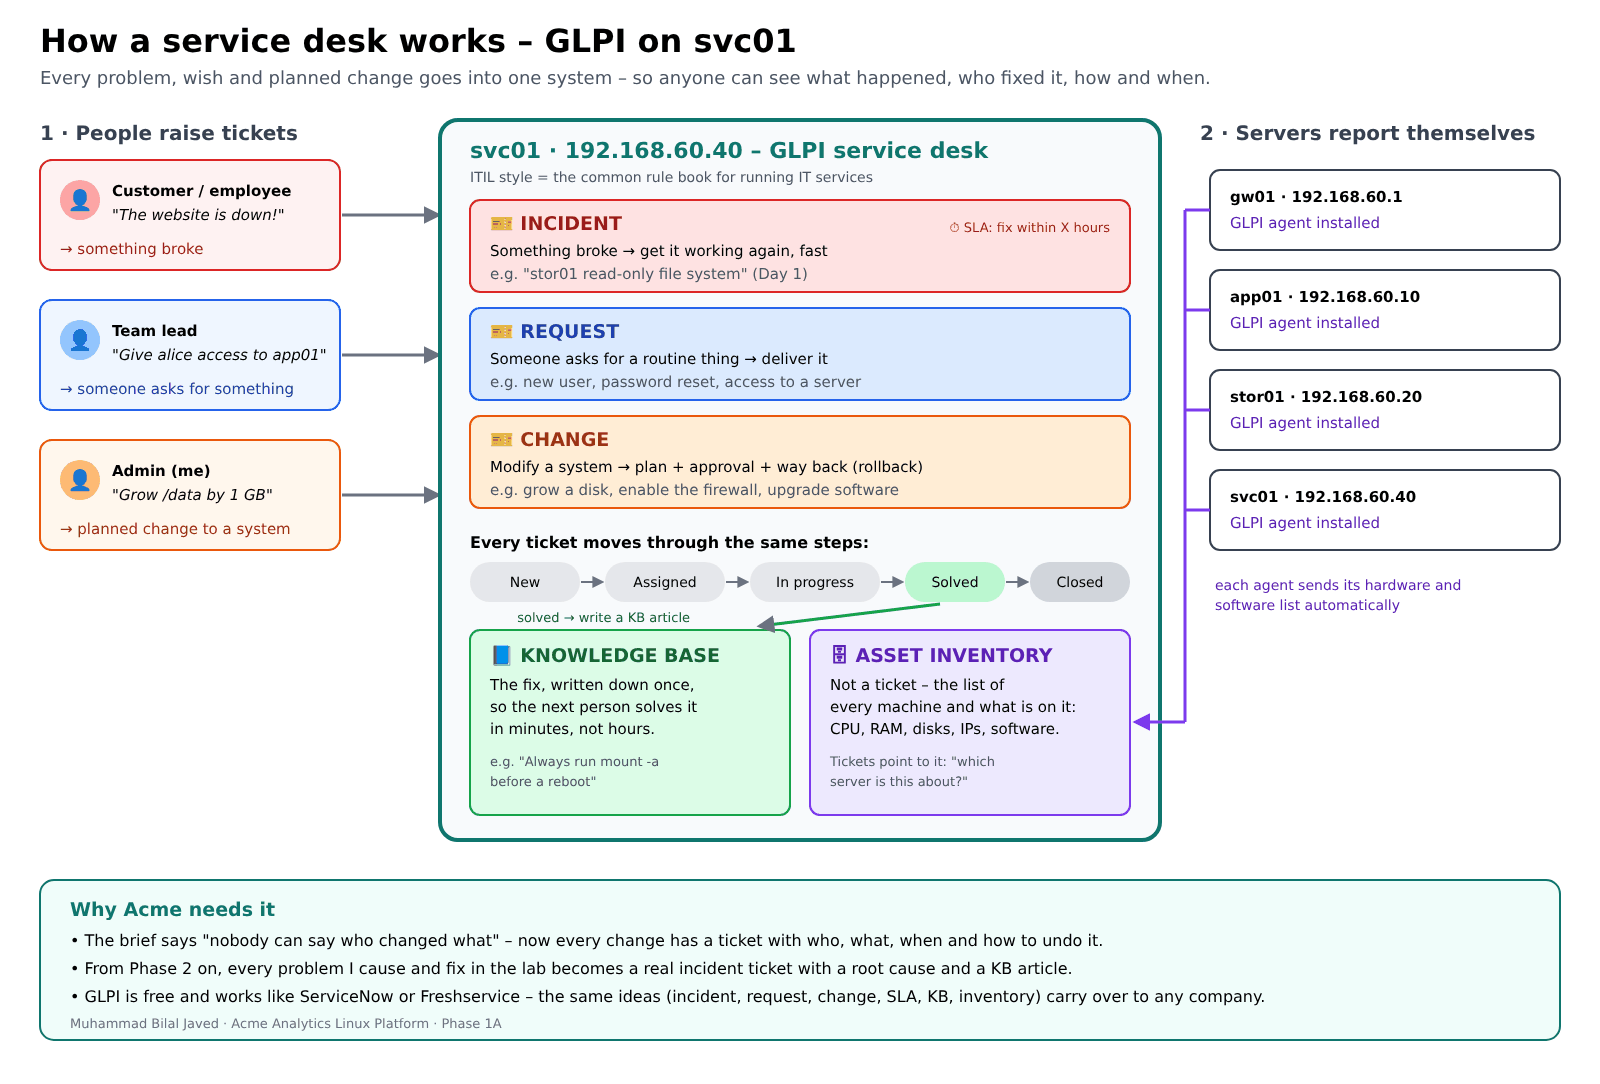
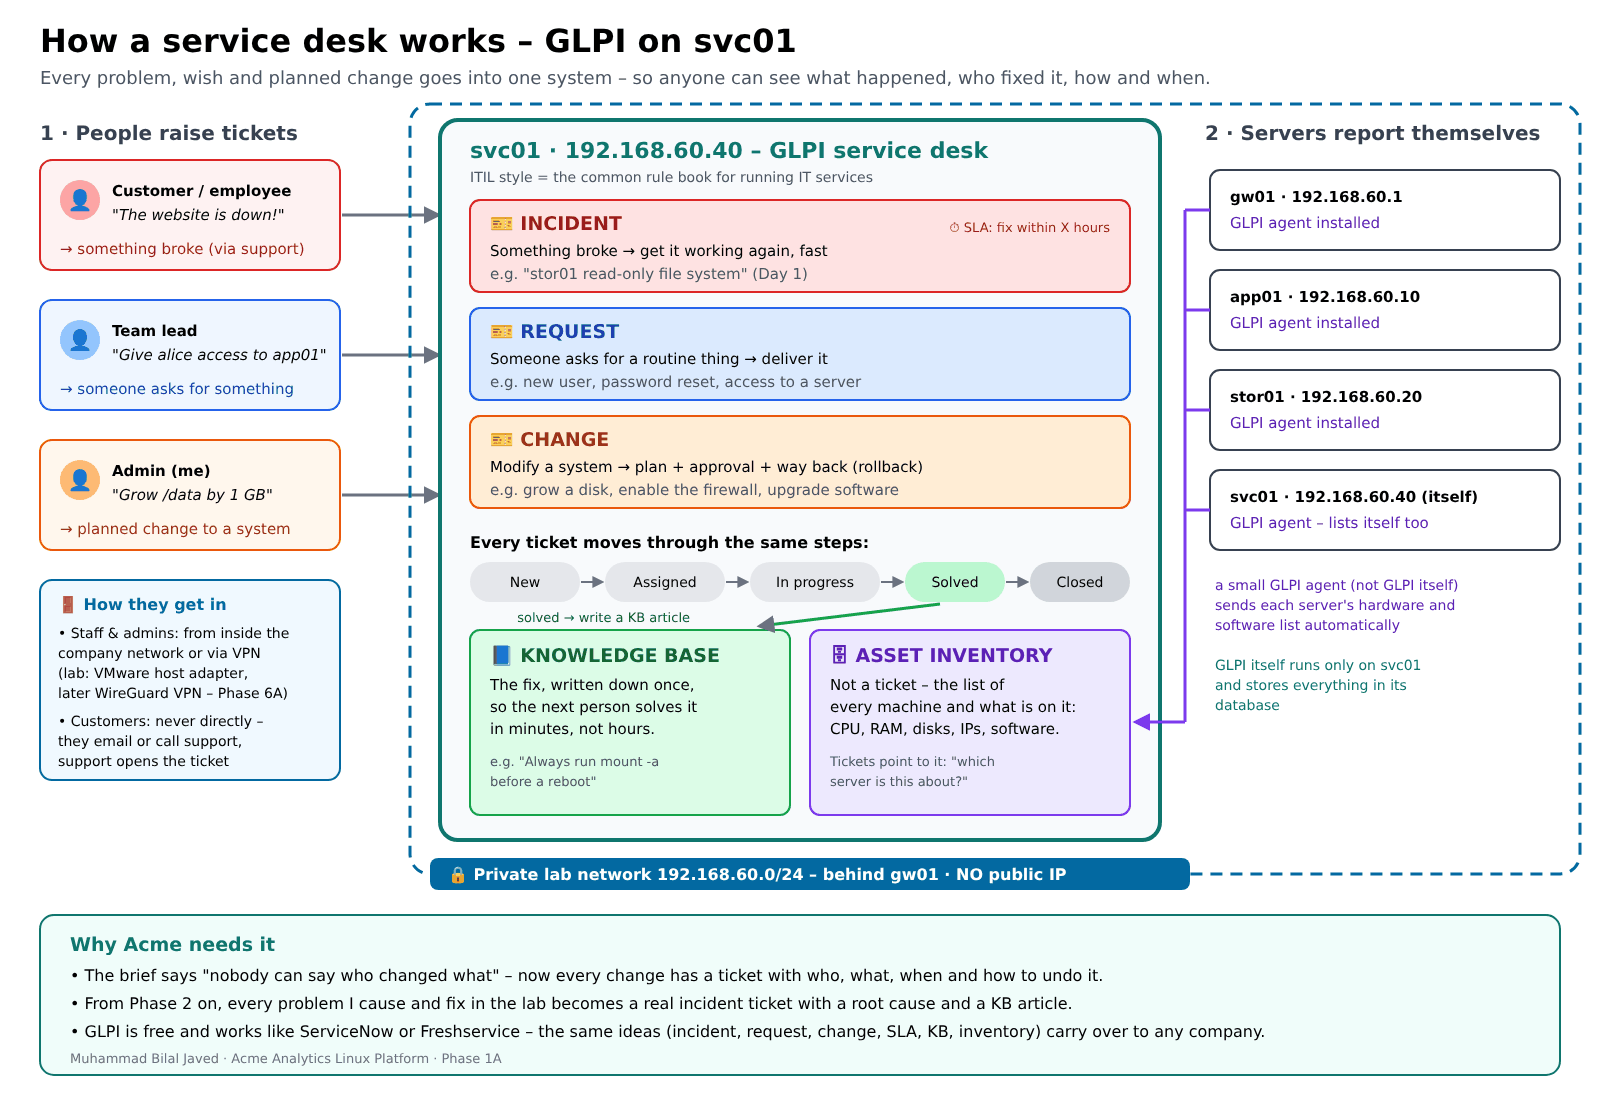
Day 3: diagram shows private network boundary and access paths; who can reach svc01
Claude-Session: https://claude.ai/code/session_01Ec2Lf72bamRsLT7SEUwmjn

diff --git a/docs/progress/day-03-2026-10-16.md b/docs/progress/day-03-2026-10-16.md
@@ -34,6 +34,12 @@
 
 > In the IT industry a problem is an **incident**, and handling them is **incident management**. When someone asks for a routine thing – a new user, a password reset, access to a server – it is a **request**. When I modify a system itself – grow a disk, enable a firewall, upgrade software – it is a **change**, which needs a plan, approval and a way back. All three are **tickets** in GLPI, and every ticket moves through the same steps: new → assigned → in progress → solved → closed; a solved fix is written down in the **knowledge base**. The **asset inventory** is not a ticket: it is the list of every machine and what is on it, filled automatically by the GLPI agent on each server, so a ticket can say which server it is about. GLPI follows **ITIL**, the common rule book for running IT services, and is used by many European companies and public bodies.
 
+**Who can reach svc01?** svc01 has **no public IP** – it sits on the private lab network behind gw01, like app01. Staff and admins reach it from inside the company network (in the lab: my PC through VMware's host adapter; from Phase 6A through the WireGuard VPN). **Customers never reach it directly**: they email or call support, and support opens the ticket for them. A service desk holds the details of every server, so exposing it to the internet would be a security risk.
+
+**Why svc01 appears twice in the picture:** in the middle it is the **GLPI application** (the help desk); on the right it is the **machine** svc01, which also runs a GLPI agent and lists itself in the inventory. GLPI itself runs only on svc01; the other servers get only the small agent.
+
+**Incident or change?** "The server is broken, please update it" is an **incident** (something is broken). "The server runs an old version, upgrade it next Tuesday" is a **change** (planned). The SLA – how fast a ticket must be handled – is the IT team's promise, not something the customer sets.
+
 **Why GLPI.** GLPI is a free, ITIL-style service desk used by many European companies and public bodies. Freshservice or ServiceNow need a paid licence; GLPI teaches the same concepts – incident, change, request, SLA, KB, CMDB – and they carry over to any tool.
 
 **Why it matters for my job search.** Many of the junior IT / DevOps postings I reviewed ask for ticket systems, SLAs, asset management or knowledge articles. In an interview I can say: *"I ran my lab through GLPI. Every incident I caused has a ticket, a root cause and a KB article, and every server is in the inventory."*
